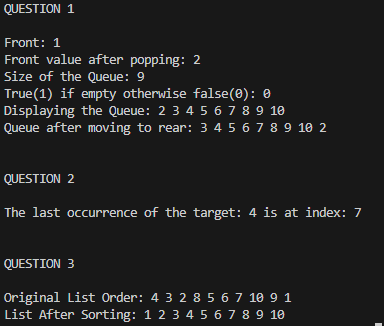
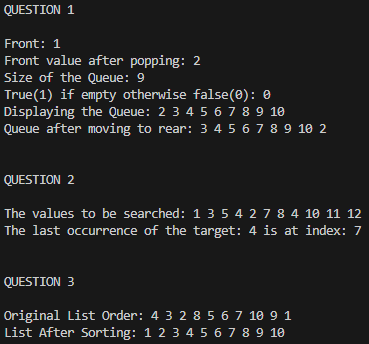
Finishing Touches

diff --git a/source/main.cpp b/source/main.cpp
@@ -58,6 +58,14 @@ int main() {
     int target = 4;
     int last_position = recursive_linear_search_last(vector_example, target, vector_example.size() - 1);
 
+    cout << "The values to be searched: ";
+
+    for (int i = 0;i < vector_example.size(); ++i) {
+        cout << vector_example[i] << " ";
+    }
+
+    cout << endl;
+
     if (last_position != -1) {
         cout << "The last occurrence of the target: " << target << " is at index: " << last_position << endl;
     } else {
